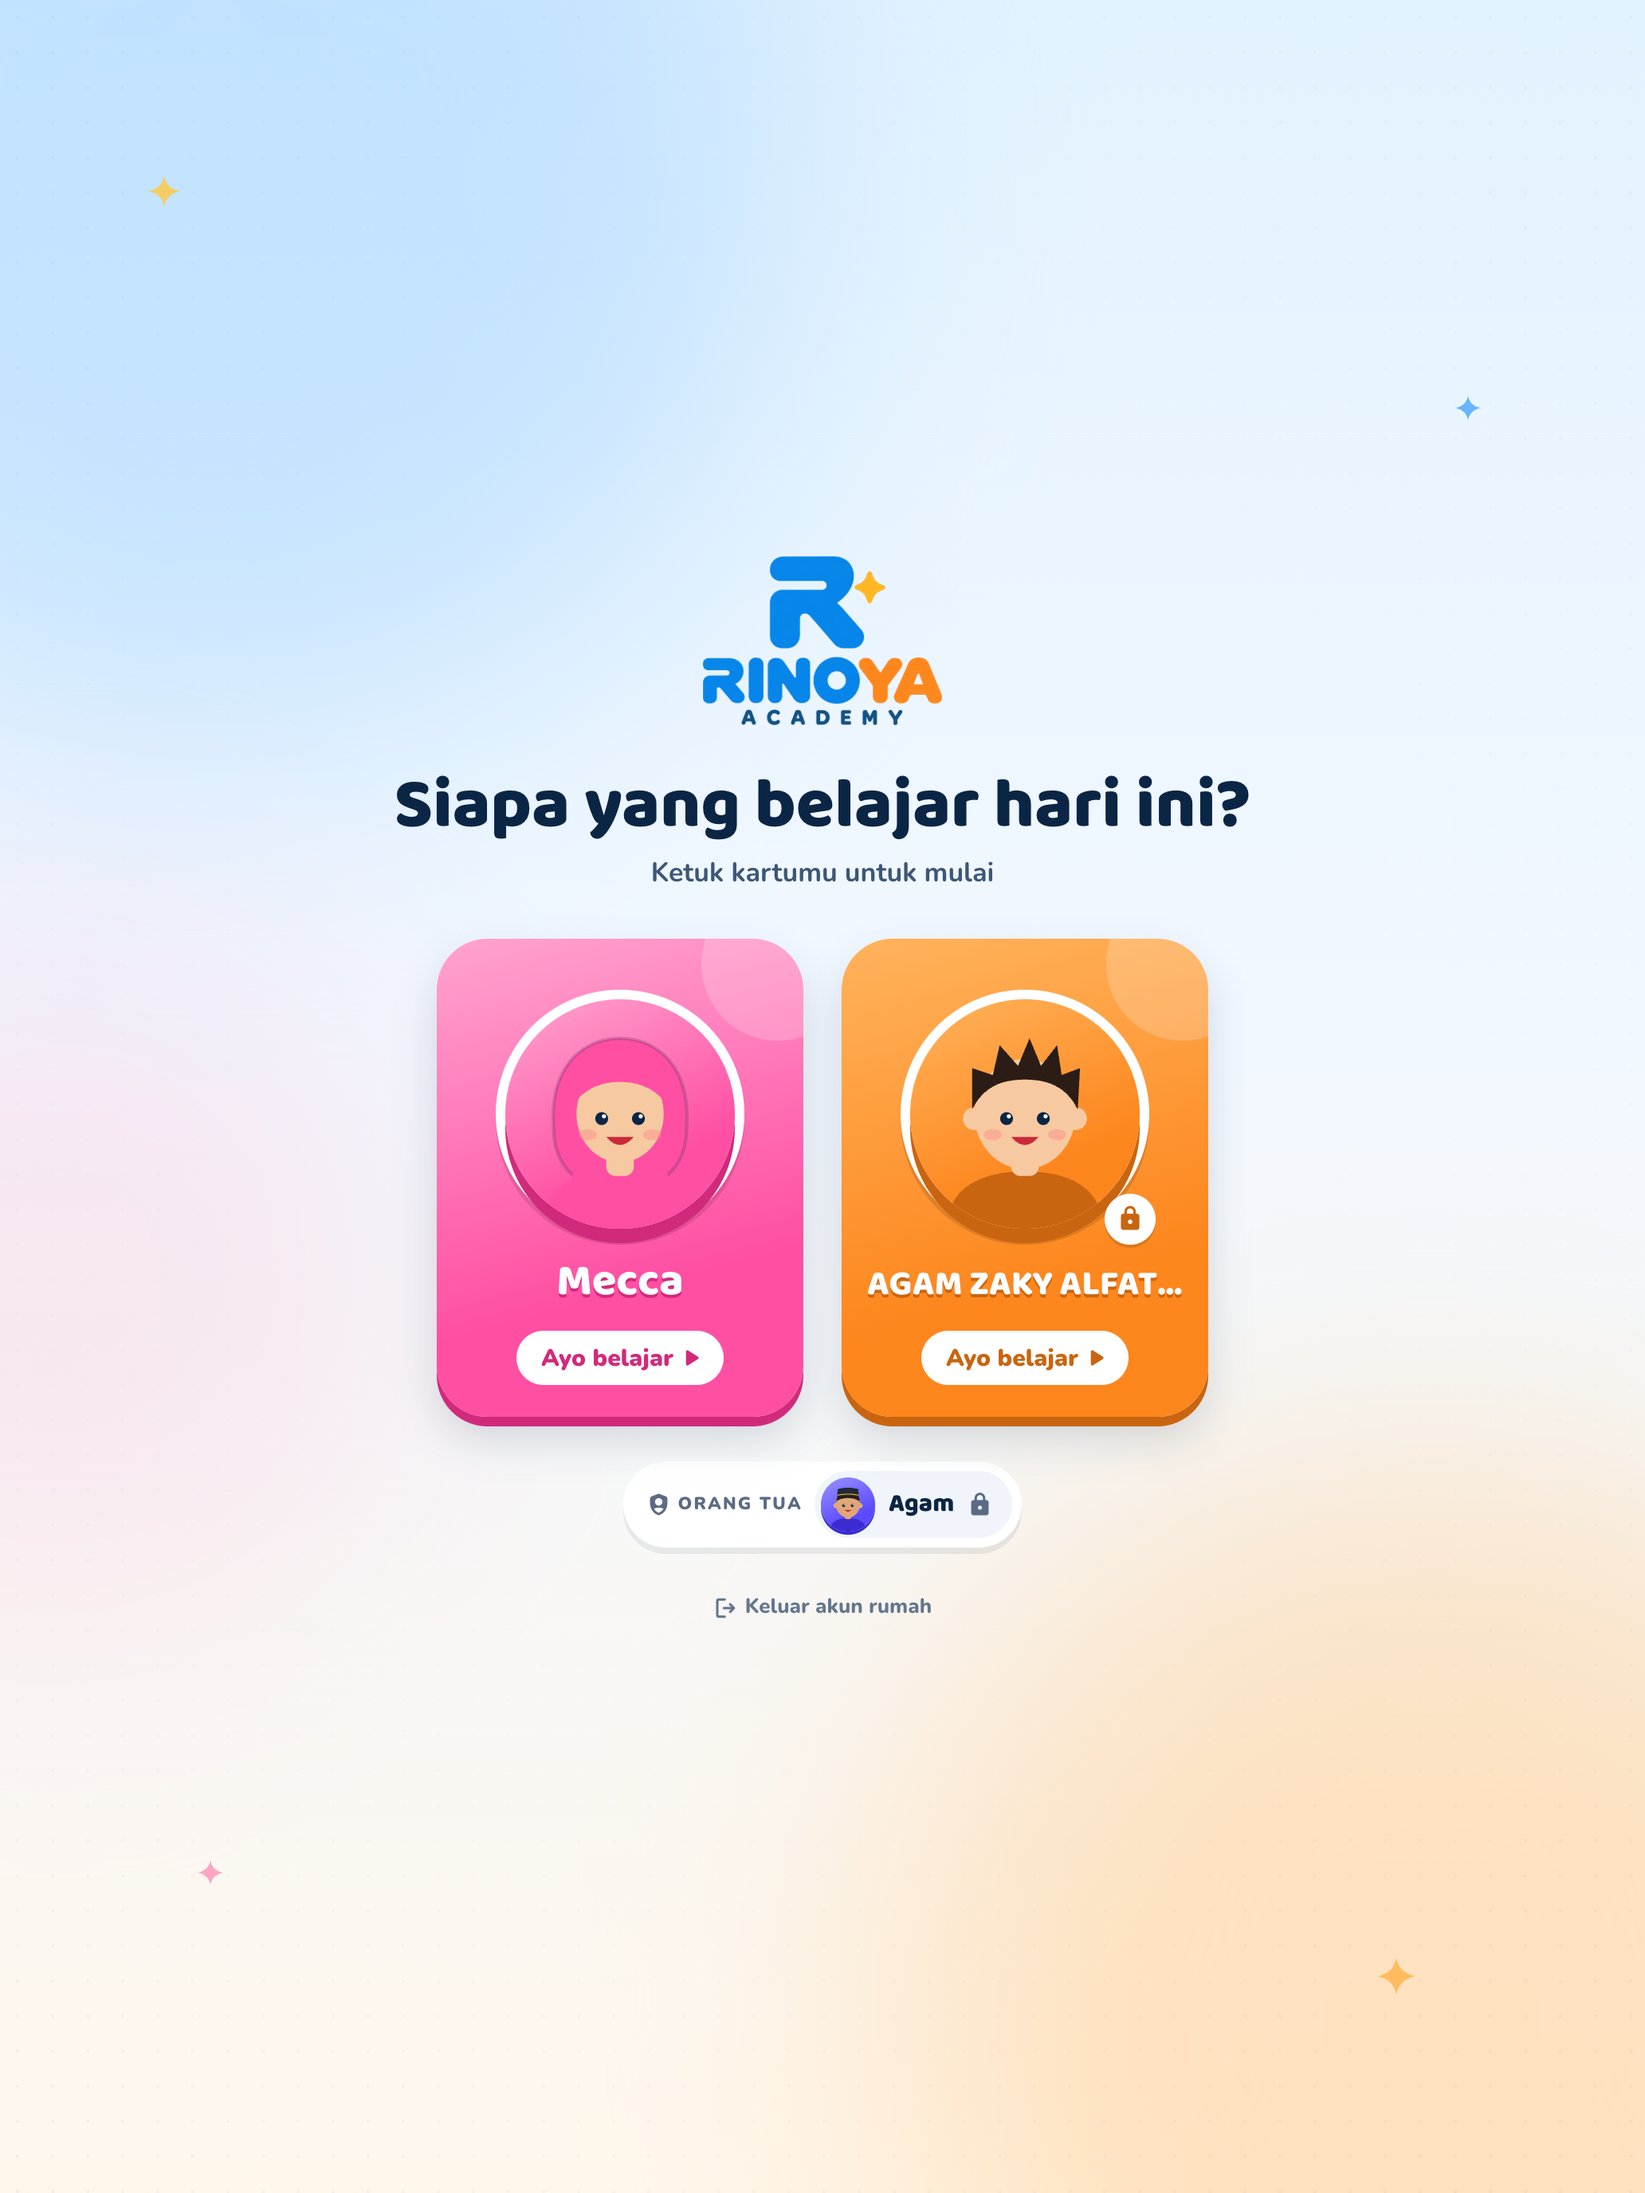
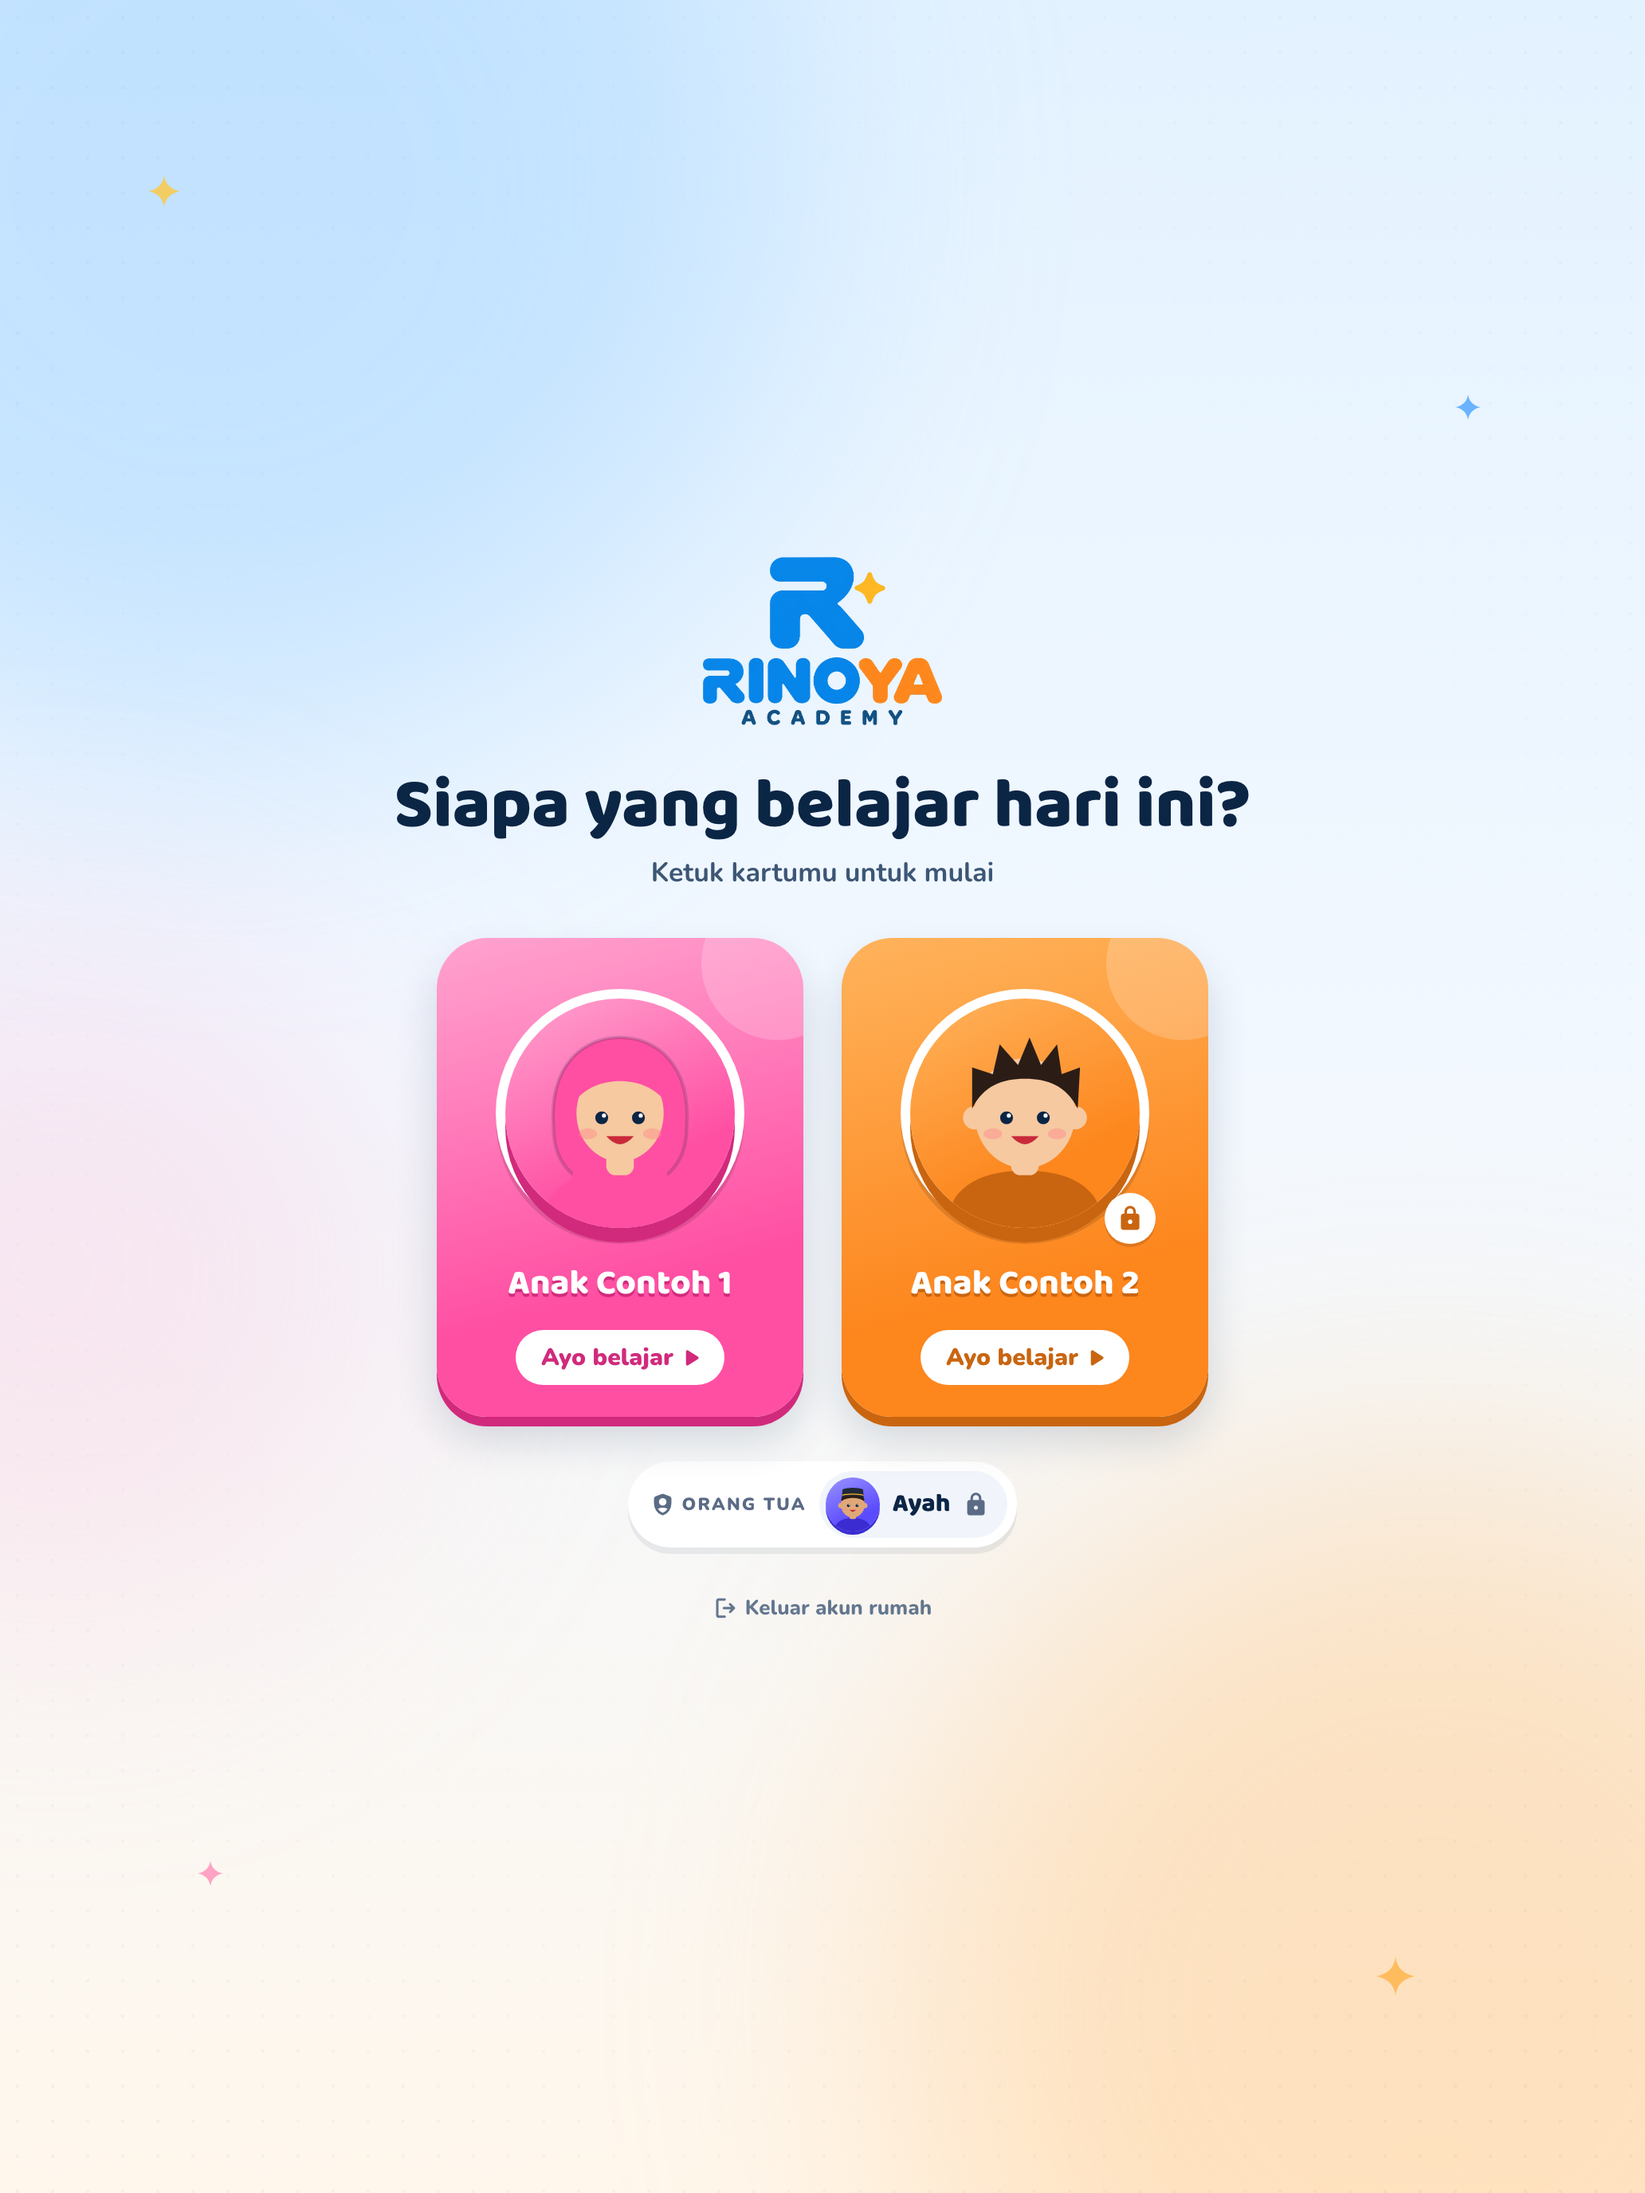
fix(ios): screenshot iPad pilih profil memakai data contoh
Nama orang sungguhan di halaman pratinjau /dev/profil diganti data contoh,
dan screenshot iPad 13" dirender ulang dari halaman itu supaya tangkapan
layar berikutnya tidak membawa data pribadi.

diff --git a/src/app/dev/profil/page.tsx b/src/app/dev/profil/page.tsx
@@ -1,6 +1,7 @@
 "use client";
 
 // Pratinjau KHUSUS DEVELOPMENT: layar pilih profil, PIN pad, tab Anggota, dan pemilih avatar dengan data demo.
+// Halaman ini dipakai untuk screenshot toko: JANGAN isi nama, foto, atau data orang sungguhan.
 // ?p=pilih | kampus | pin | gambar | anggota | avatar. (kampus = persis layar /masuk dengan latarnya) Di produksi halaman ini 404.
 
 import { notFound, useSearchParams } from "next/navigation";
@@ -14,8 +15,8 @@ import { LatarMasuk } from "@/app/masuk/latar-masuk";
 import type { Member } from "@/lib/store";
 
 const DEMO: Member[] = [
-  { id: "d-agam", name: "Agam", c: "orange", admin: false, perms: [], pin: "1234", avatar: "k1-r1-w0-a0", peran: "anak", jenisPin: "angka" },
-  { id: "d-mecca", name: "Mecca", c: "pink", admin: false, perms: [], pin: "1234", avatar: "k1-r4-w0-a0", peran: "anak", jenisPin: "gambar" },
+  { id: "d-anak-2", name: "Anak Contoh 2", c: "orange", admin: false, perms: [], pin: "1234", avatar: "k1-r1-w0-a0", peran: "anak", jenisPin: "angka" },
+  { id: "d-anak-1", name: "Anak Contoh 1", c: "pink", admin: false, perms: [], pin: "1234", avatar: "k1-r4-w0-a0", peran: "anak", jenisPin: "gambar" },
   { id: "d-raka", name: "Raka", c: "teal", admin: false, perms: [], avatar: "k3-r6-w0-a1", peran: "anak" },
   { id: "d-ayah", name: "Ayah", c: "indigo", admin: true, perms: [], pin: "1234", avatar: "k2-r5-w0-a0", peran: "dewasa" },
   { id: "d-ibu", name: "Ibu", c: "blue", admin: false, perms: [], pin: "1234", avatar: "k1-r4-w2-a0", peran: "dewasa" },
@@ -33,9 +34,9 @@ function Preview() {
         <div className="relative m-auto flex w-full justify-center">
           <PilihProfil
             members={[
-              { ...DEMO[1], name: "Mecca", pin: undefined },
-              { ...DEMO[0], name: "AGAM ZAKY ALFATIH" },
-              { ...DEMO[3], name: "Agam" },
+              { ...DEMO[1], pin: undefined },
+              DEMO[0],
+              DEMO[3],
             ]}
             onMasuk={() => {}}
           />
@@ -45,8 +46,8 @@ function Preview() {
   return (
     <div className="bg-dots flex min-h-dvh items-center justify-center p-6" style={{ fontFamily: "var(--ff-nunito)" }}>
       {p === "pilih" && <PilihProfil members={DEMO} onMasuk={() => {}} />}
-      {p === "pin" && <MasukPin m={DEMO[0]} judul="Halo Agam, ketik PIN-mu" onBenar={() => {}} />}
-      {p === "gambar" && <MasukPin m={DEMO[1]} judul="Halo Mecca, ketuk gambar rahasiamu" onBenar={() => {}} />}
+      {p === "pin" && <MasukPin m={DEMO[0]} judul="Halo Anak Contoh 2, ketik PIN-mu" onBenar={() => {}} />}
+      {p === "gambar" && <MasukPin m={DEMO[1]} judul="Halo Anak Contoh 1, ketuk gambar rahasiamu" onBenar={() => {}} />}
       {p === "avatar" && (
         <div className="w-full max-w-[440px]">
           <PilihAvatar awal="k1-r4-w0-a0" c="pink" onSimpan={() => {}} />
